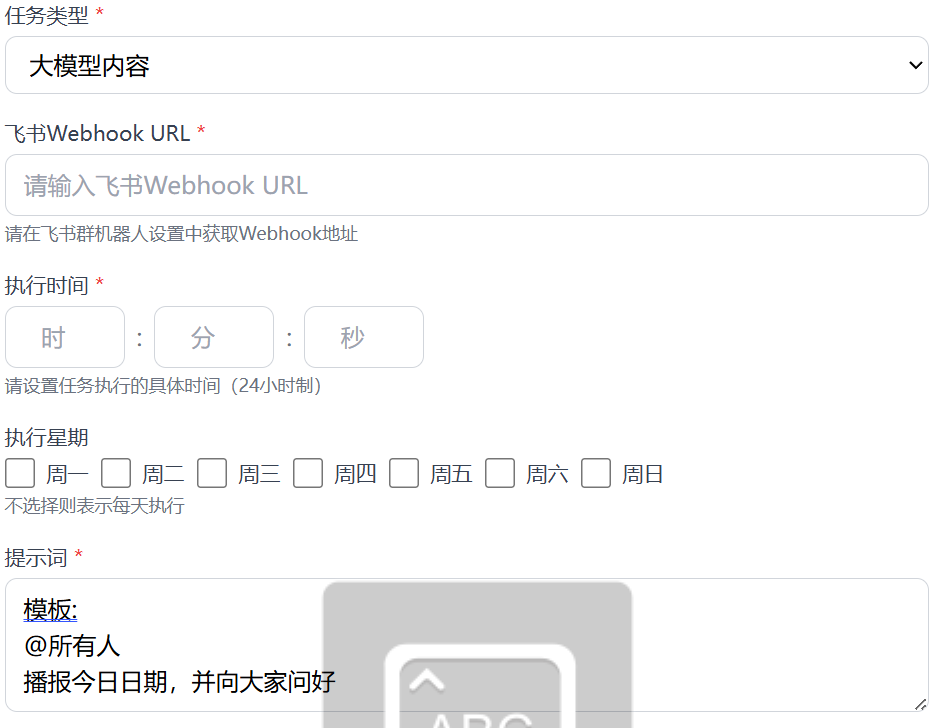
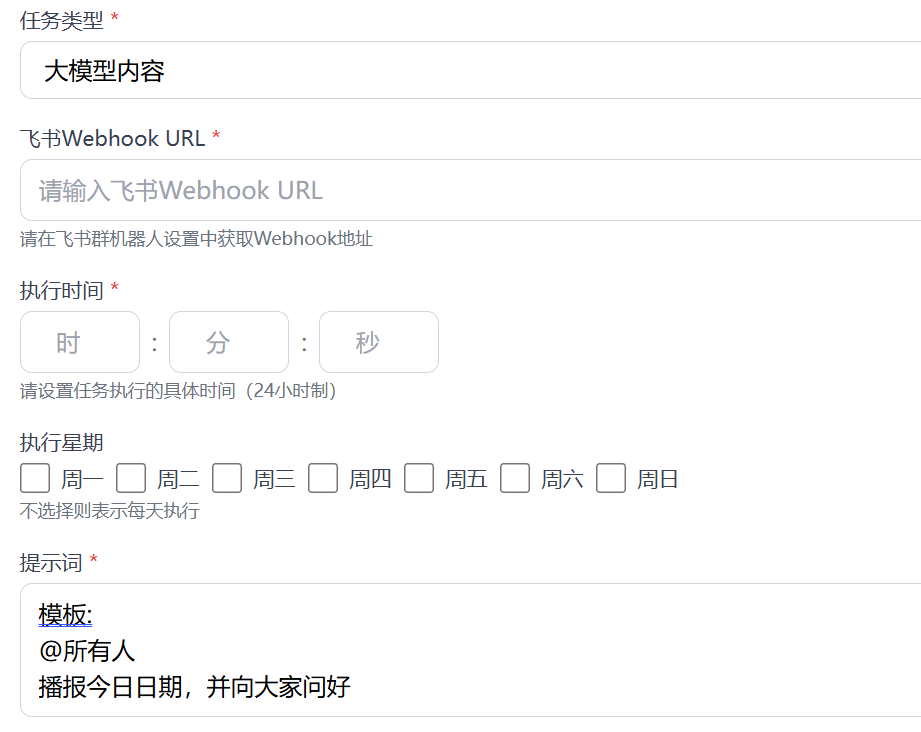
readme图片修正

diff --git a/README.md b/README.md
@@ -124,9 +124,11 @@ A: 检查Webhook地址是否正确，可通过「测试连接」功能验证。
 
 ### Q: 如何在自定义消息或者大模型消息中@全员？
 A: 保证飞书消息中有"@所有人”即可
-![img.png](img/img_2.png)
-![img.png](img/img_3.png)
 
+<div align="center">
+  <img src="img/img_2.png" width="45%" style="display: inline-block; margin: 10px;" alt="管理界面截图1"/>
+  <img src="img/img_3.png" width="45%" style="display: inline-block; margin: 10px;" alt="管理界面截图2"/>
+</div>
 
 ### Q: 服务重启后任务会丢失吗？
 A: 不会，任务配置存储在SQLite数据库中，重启后会自动加载。
